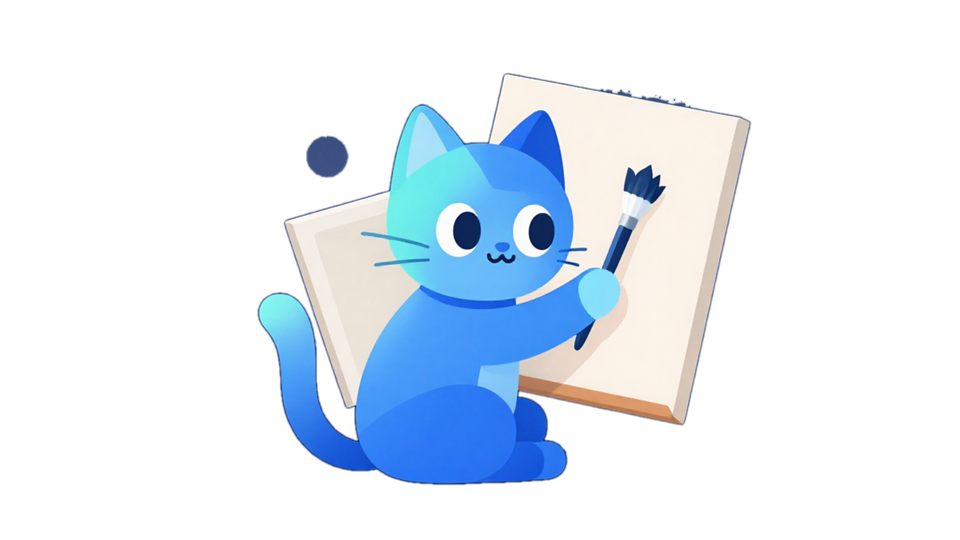
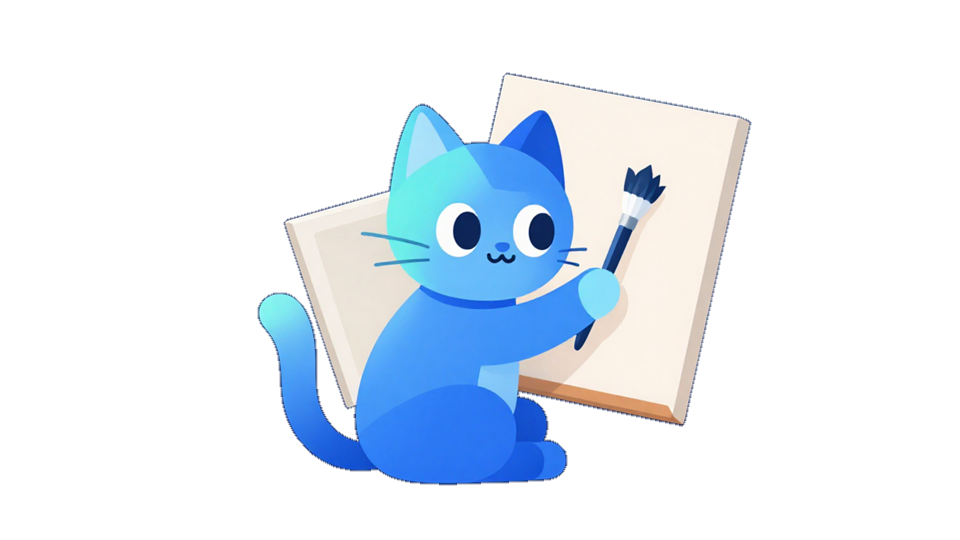
精修浅色主题 Hero 插画抠图（清理孤立色块、平滑边缘）并抬高标语位置

diff --git a/web/src/styles/globals.css b/web/src/styles/globals.css
@@ -1434,7 +1434,8 @@ body,
 .td-home-hero-slogan {
     position: absolute;
     inset-inline-start: 50%;
-    bottom: clamp(0.75rem, 4%, 1.75rem);
+    /* 抬高一些，避免紧贴 Hero 底部分界线造成"被切断"的观感。 */
+    bottom: clamp(1.5rem, 9%, 2.75rem);
     transform: translateX(-50%);
     margin: 0;
     /* 楷书系：优先用户已装的霞鹜文楷，其次系统楷体，带出文艺书卷气。 */
